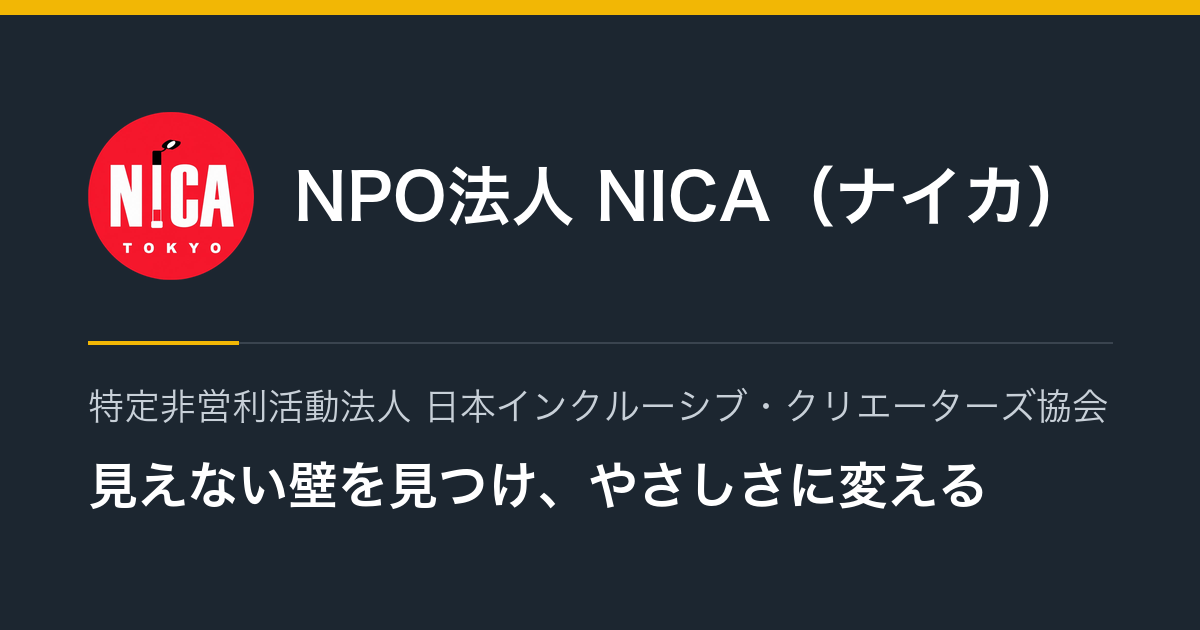
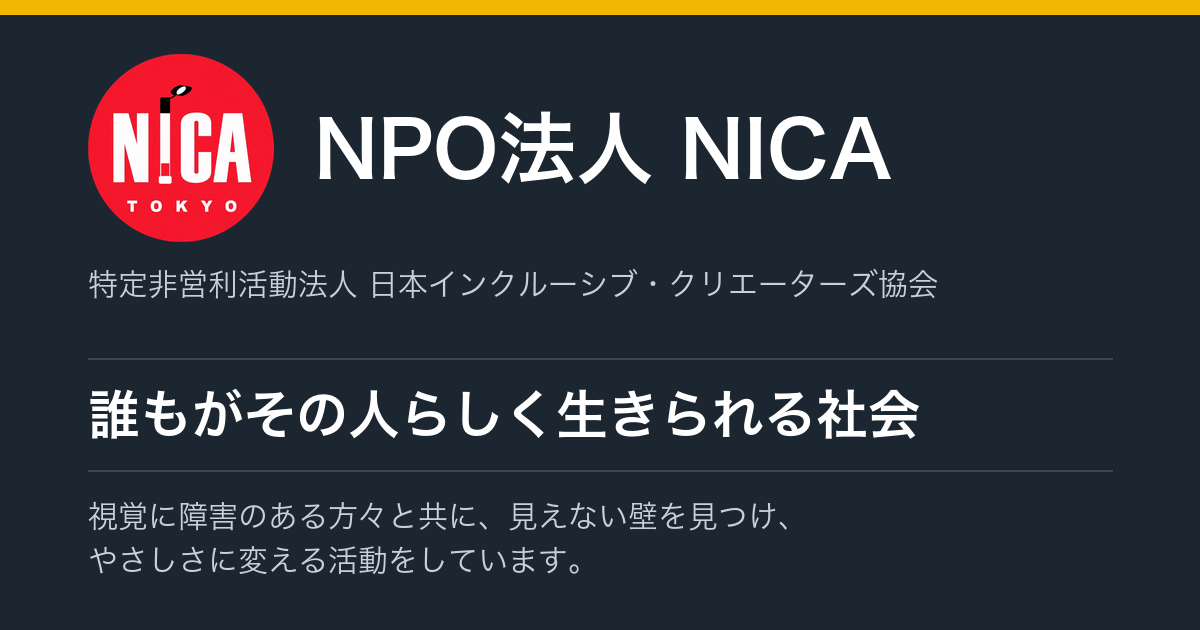
共有画像を、団体の紹介として完結する内容に作り直す
上からロゴと「NPO法人 NICA」、正式名称、区切り線をはさんで
「誰もがその人らしく生きられる社会」、活動の説明の順に配置。
ロゴと団体名を大きくし、どのページを貼っても同じこの1枚が出る。

diff --git a/make_brand.py b/make_brand.py
@@ -26,7 +26,11 @@ NAVY, YELLOW, WHITE, SOFT = "#1c2630", "#f2b705", "#ffffff", "#c8d0d8"
 BOLD = "/System/Library/Fonts/ヒラギノ角ゴシック W6.ttc"
 LIGHT = "/System/Library/Fonts/ヒラギノ角ゴシック W3.ttc"
 
-TAGLINE = "見えない壁を見つけ、やさしさに変える"
+VISION = "誰もがその人らしく生きられる社会"
+DESCRIPTION = [
+    "視覚に障害のある方々と共に、見えない壁を見つけ、",
+    "やさしさに変える活動をしています。",
+]
 SUBTITLE = "特定非営利活動法人 日本インクルーシブ・クリエーターズ協会"
 
 
@@ -48,46 +52,49 @@ def square(logo: Image.Image, size: int, bg=None, pad: float = 0.0) -> Image.Ima
 def make_og(logo: Image.Image) -> None:
     """LINE や SNS に貼ったときに出る画像（1200×630）。
 
-    上段はロゴと団体の通称だけにして、下段は横幅をいっぱいに使い、
-    正式名称と活動を表す一文を大きく置く。
+    どのページを貼っても同じこの1枚が出る。上からロゴと団体名、正式名称、
+    目指している社会、活動の説明の順に、上下の区切り線で並べる。
     """
     W, H = 1200, 630
     MARGIN = 88
     RIGHT = W - MARGIN
+    RULE = "#3d4753"
 
     og = Image.new("RGB", (W, H), NAVY)
     d = ImageDraw.Draw(og)
     d.rectangle([0, 0, W, 14], fill=YELLOW)
 
-    # --- 上段：ロゴ ＋ 通称 ---
-    mark = logo.copy()
-    mark.thumbnail((168, 168), Image.LANCZOS)
-    mark_y = 112
-    og.paste(mark, (MARGIN, mark_y), mark)
-
-    f_name = ImageFont.truetype(BOLD, 64)
-    name = "NPO法人 NICA（ナイカ）"
-    name_x = MARGIN + mark.width + 40
-    box = d.textbbox((0, 0), name, font=f_name)
-    # ロゴの高さの中心に文字の中心を合わせる
-    name_y = mark_y + (mark.height - (box[3] - box[1])) // 2 - box[1]
-    d.text((name_x, name_y), name, font=f_name, fill=WHITE)
-
-    # --- 仕切り線 ---
-    line_y = mark_y + mark.height + 62
-    d.line([MARGIN, line_y, RIGHT, line_y], fill="#3a444f", width=2)
-    d.line([MARGIN, line_y, MARGIN + 150, line_y], fill=YELLOW, width=4)
-
-    # --- 下段：正式名称と一言。横幅をいっぱいに使う ---
-    rows = [
-        (line_y + 46, SUBTITLE, ImageFont.truetype(LIGHT, 36), SOFT),
-        (line_y + 118, TAGLINE, ImageFont.truetype(BOLD, 50), WHITE),
-    ]
-    for ry, txt, font, fill in rows:
-        right = d.textbbox((MARGIN, ry), txt, font=font)[2]
+    def put(x, y, txt, font, fill):
+        right = d.textbbox((x, y), txt, font=font)[2]
         if right > RIGHT:
             print(f"  ※ はみ出し注意（右端 {right} > {RIGHT}）: {txt}")
-        d.text((MARGIN, ry), txt, font=font, fill=fill)
+        d.text((x, y), txt, font=font, fill=fill)
+
+    # --- ロゴと団体名 ---
+    mark = logo.copy()
+    mark.thumbnail((188, 188), Image.LANCZOS)
+    mark_y = 54
+    og.paste(mark, (MARGIN, mark_y), mark)
+
+    f_name = ImageFont.truetype(BOLD, 78)
+    name = "NPO法人 NICA"
+    box = d.textbbox((0, 0), name, font=f_name)
+    name_y = mark_y + (mark.height - (box[3] - box[1])) // 2 - box[1]
+    put(MARGIN + mark.width + 40, name_y, name, f_name, WHITE)
+
+    # --- 正式名称 ---
+    put(MARGIN, mark_y + mark.height + 26, SUBTITLE,
+        ImageFont.truetype(LIGHT, 30), SOFT)
+
+    # --- 目指している社会。上下を線ではさむ ---
+    d.line([MARGIN, 358, RIGHT, 358], fill=RULE, width=2)
+    put(MARGIN, 388, VISION, ImageFont.truetype(BOLD, 52), WHITE)
+    d.line([MARGIN, 470, RIGHT, 470], fill=RULE, width=2)
+
+    # --- 活動の説明 ---
+    f_desc = ImageFont.truetype(LIGHT, 30)
+    for i, row in enumerate(DESCRIPTION):
+        put(MARGIN, 500 + i * 44, row, f_desc, SOFT)
 
     og.save(ASSETS / "og-image.png")
 
